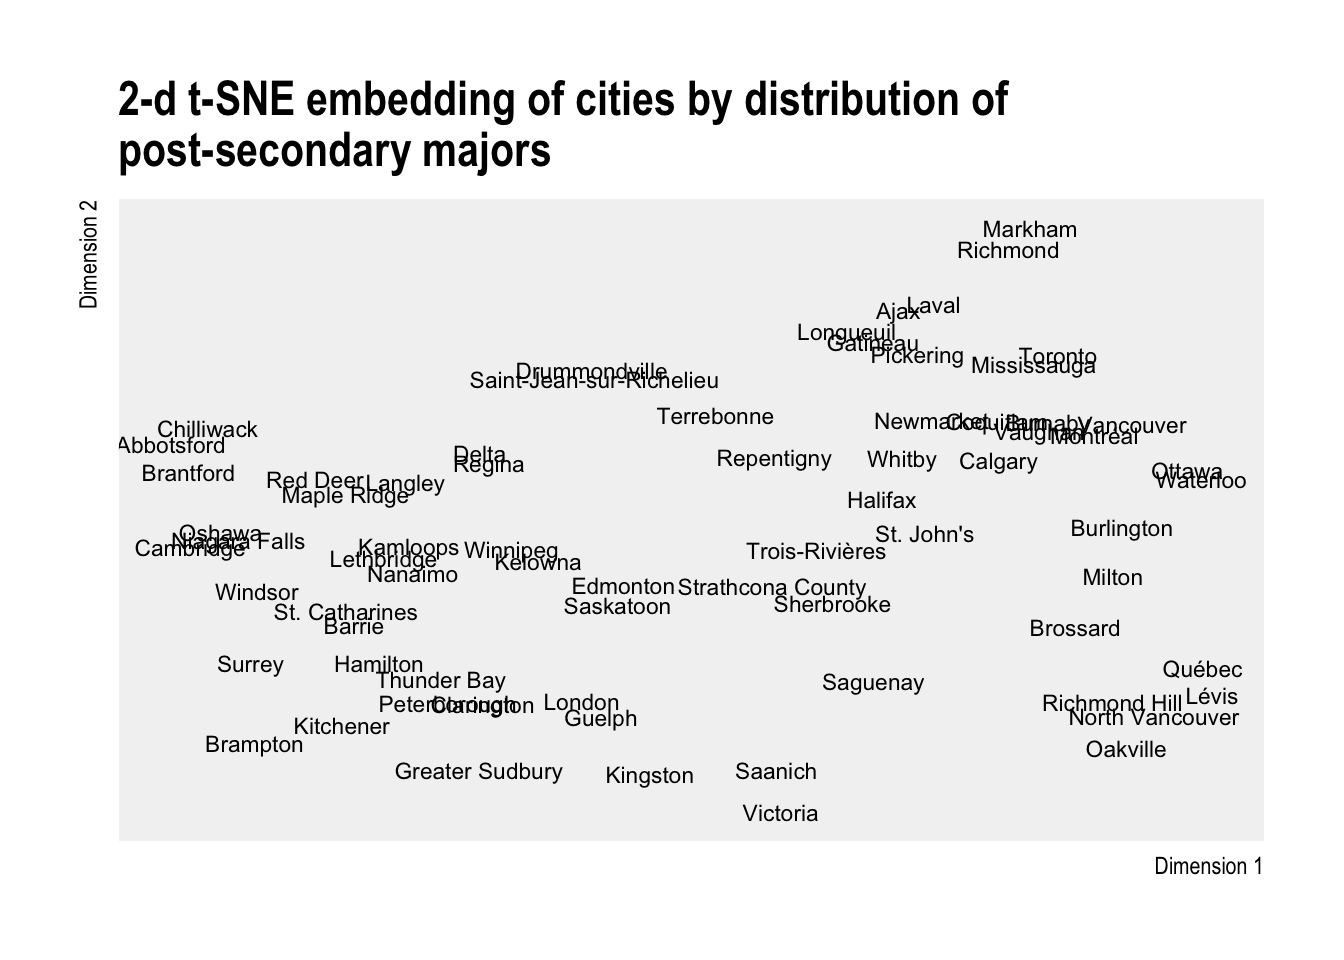
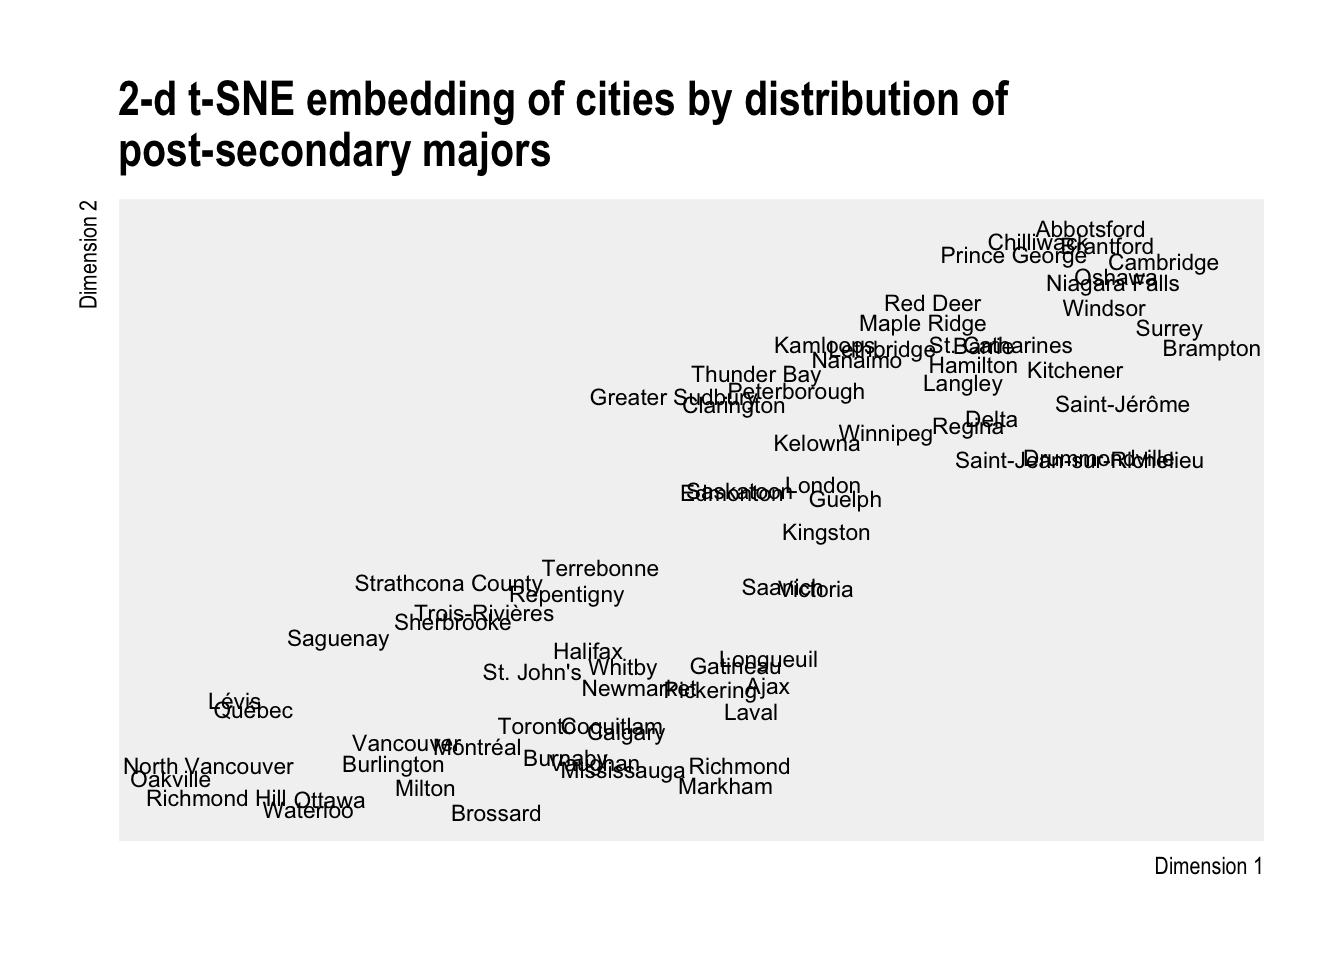
Change cutoff to 74k
To include prince george

diff --git a/content/post/2018-07-01-demographic-tsne.html b/content/post/2018-07-01-demographic-tsne.html
@@ -75,7 +75,7 @@ cmas &lt;- list_census_regions(&quot;CA16&quot;) %&gt;% filter(level == &quot;CM
 all_csd_props &lt;- purrr::map_df(cmas$region, .f = csd_props)
 
 # Filter to just Census subdivisions with a min pop of 50,000
-larger_csd_props &lt;- all_csd_props %&gt;% filter(Population &gt; 75000)
+larger_csd_props &lt;- all_csd_props %&gt;% filter(Population &gt; 74000)
 
 # Turn data frame into a matrix of proportions 
 prop_matrix &lt;- larger_csd_props %&gt;% 
